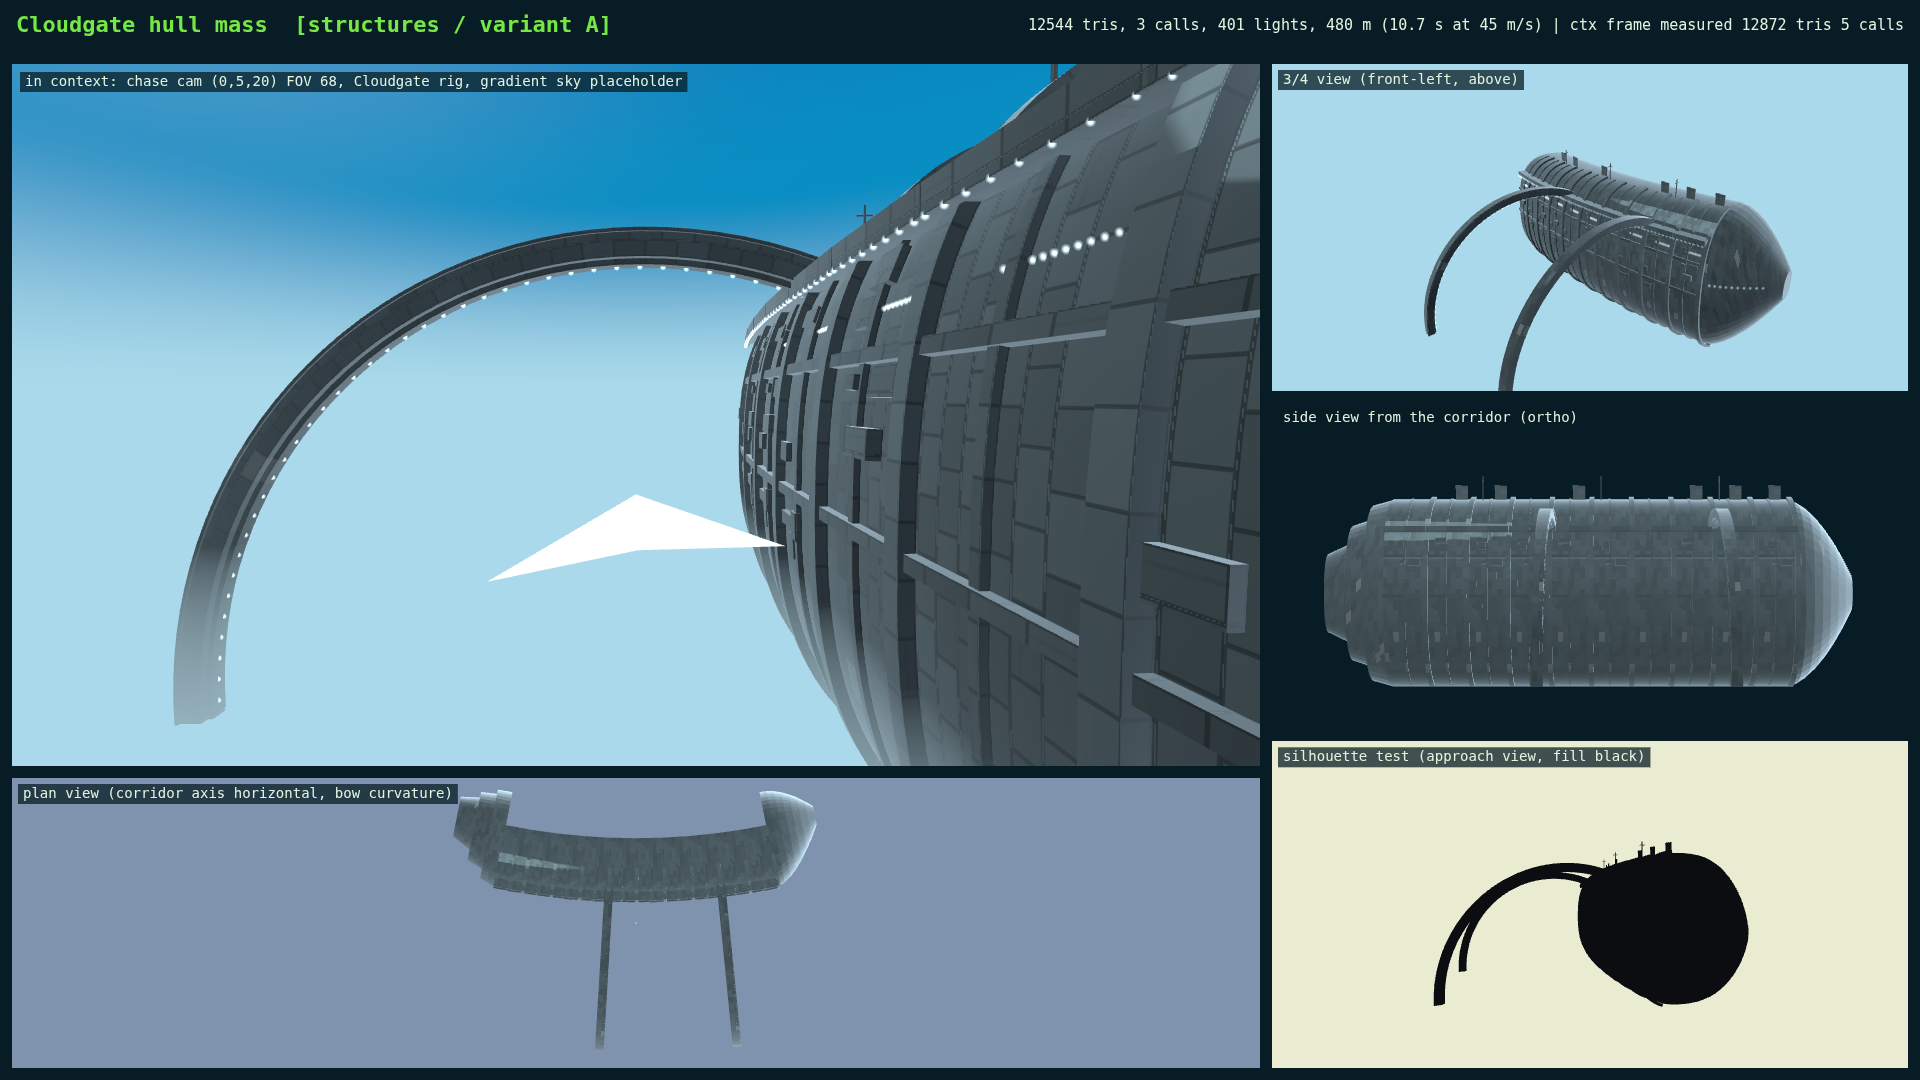
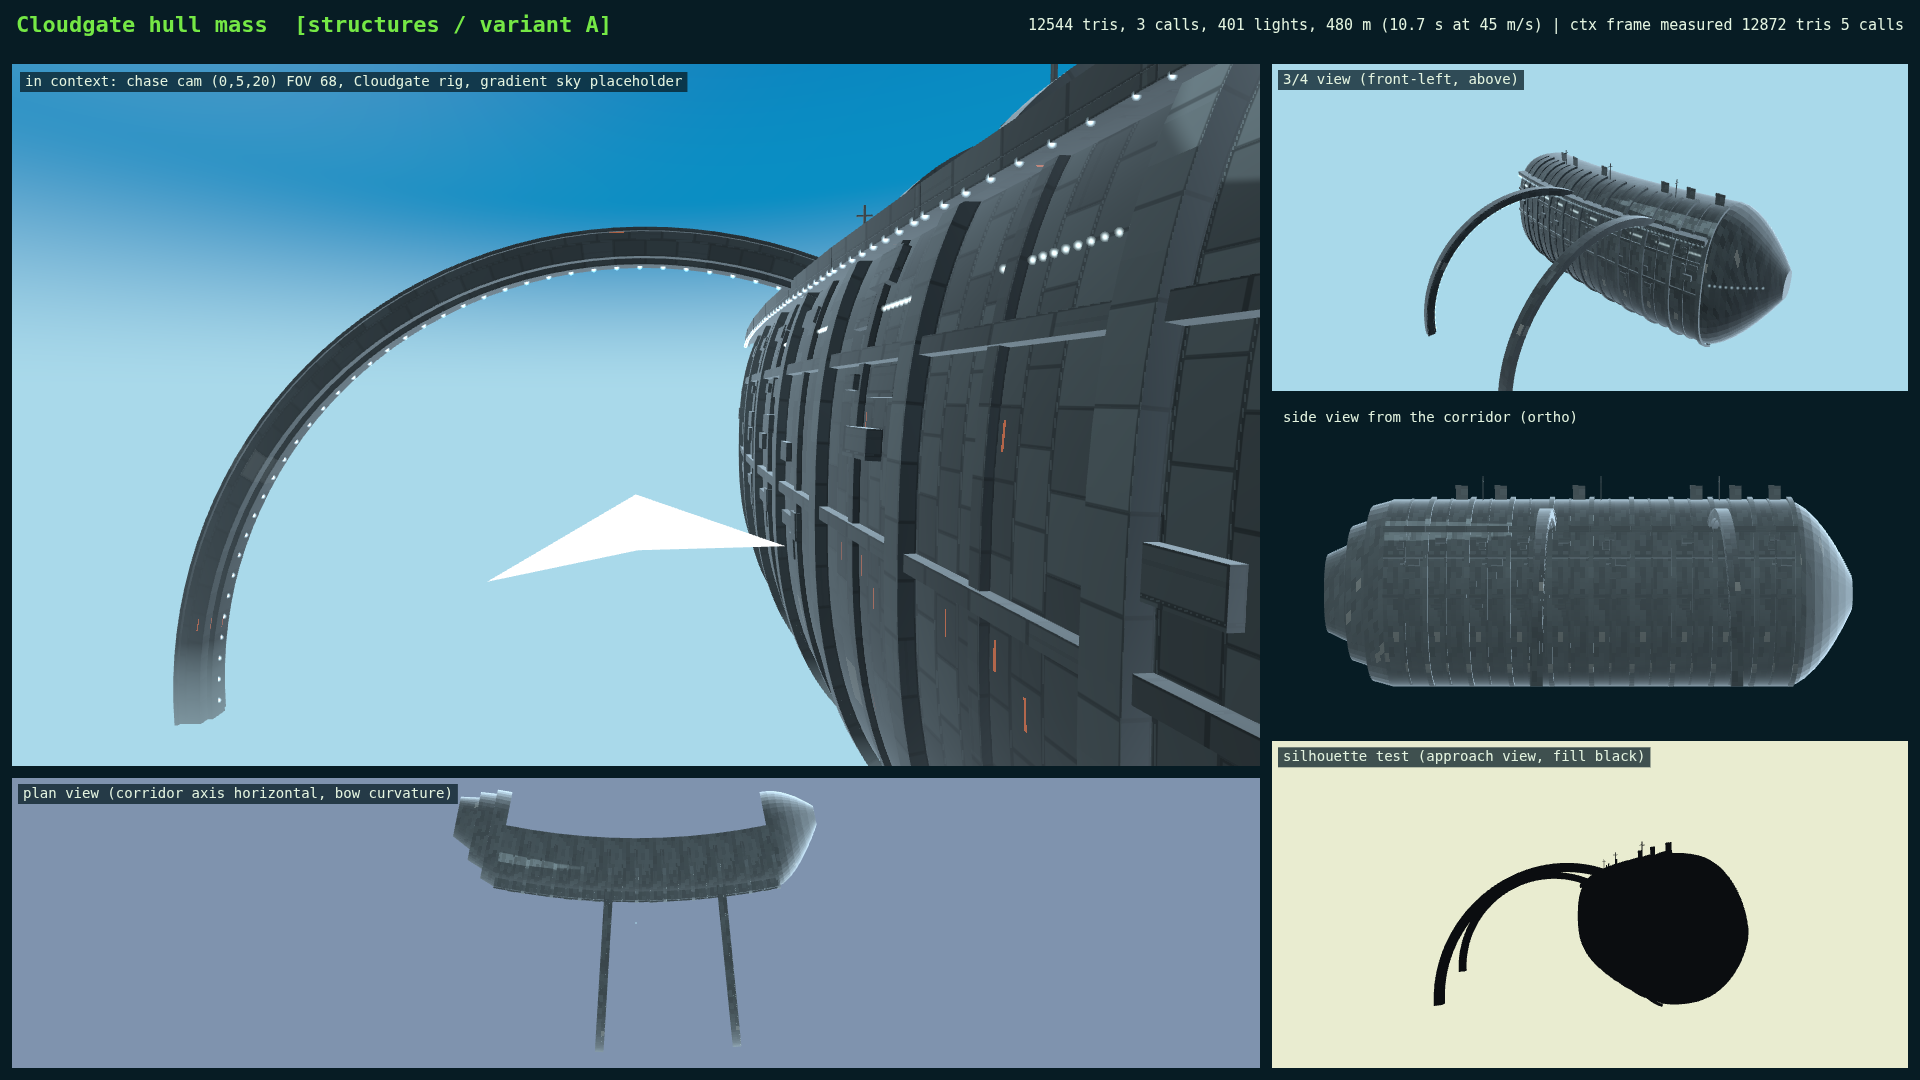
CONTRAIL: consistency-pass work in progress
Claude-Session: https://claude.ai/code/session_01Sb5vk8dPPmr8ekyxShV53k

Changed region(s): [[0.375, 0.4889, 0.5, 0.7333], [0.0625, 0.5194, 0.125, 0.6722]]

diff --git a/contrail/src/gen/entities/enemies/bulwark.ts b/contrail/src/gen/entities/enemies/bulwark.ts
@@ -327,7 +327,8 @@ export function bulwarkGeometry(p: BulwarkParams, seed: number) {
 
 export function buildBulwark(params: BulwarkParams = ENEMY_VARIANTS.A.bulwark, seed = 1): BulwarkBuild {
   const G = bulwarkGeometry(params, seed);
-  const mp = createEnemyMaterial({ look: params.look, seamSpacing: 6 });
+  // a 220 m hull: halve the rim so it stays an edge line, not a wash over big facets
+  const mp = createEnemyMaterial({ look: { ...params.look, rimStrength: params.look.rimStrength * 0.5, stageRim: params.look.stageRim * 0.5 }, seamSpacing: 6 });
   const root = new THREE.Group();
   root.name = 'bulwark';
   for (const m of enemyMesh(G.geo, mp)) root.add(m);

diff --git a/contrail/src/gen/entities/enemies/material.ts b/contrail/src/gen/entities/enemies/material.ts
@@ -169,7 +169,8 @@ void main() {
   // thin, crisp anime rim from the welded (smoothed) normal: hugs the silhouette
   // instead of flooding flat facets seen at grazing angles
   vec3 rN = normalize(vRimN);
-  float edge = 1.0 - clamp(abs(dot(rN, v)), 0.0, 1.0);
+  // rim only where BOTH the facet and the welded normal are grazing (no whole-face floods)
+  float edge = 1.0 - max(clamp(abs(dot(rN, v)), 0.0, 1.0), clamp(dot(n, v), 0.0, 1.0) * 0.85);
   float fr = smoothstep(0.7, 0.7 + 0.75 / uWarmRimPower, edge) * edge * edge;
   fr *= smoothstep(-0.1, 0.25, dot(n, v) + 0.2);
   float facing = clamp(dot(rN, normalize(uRimDir)) * 0.5 + 0.5, 0.0, 1.0);

diff --git a/contrail/src/gen/entities/enemies/variants.ts b/contrail/src/gen/entities/enemies/variants.ts
@@ -43,7 +43,7 @@ export const ENEMY_VARIANTS: Record<'A' | 'B' | 'C', EnemyVariant> = {
   ),
   B: variant(
     'Hard panel',
-    { rimStrength: 0.95, rimPower: 3.2, rimWrap: 0.3, stageRim: 0.25, panelContrast: 1.0, markerIntensity: 2.6, markerDensity: 1.0, thrusterIntensity: 2.2, seamStrength: 0.45, outline: true, outlinePx: 1.4 },
+    { rimStrength: 1.6, rimPower: 3.2, rimWrap: 0.55, stageRim: 0.45, panelContrast: 1.0, markerIntensity: 3.2, markerDensity: 1.0, thrusterIntensity: 2.2, seamStrength: 0.45, outline: true, outlinePx: 1.4 },
     { spike: 0.6, leg: 0.94, wing: 1.06 },
   ),
   C: variant(

diff --git a/contrail/src/lab/boards/enemies.ts b/contrail/src/lab/boards/enemies.ts
@@ -336,7 +336,7 @@ export default async function board(ctx: LabContext) {
     const pxPerM = (RW - 40) / 240;
     const wM = RW / pxPerM, hM = b3.h / pxPerM;
     const cam = new THREE.OrthographicCamera(-wM / 2, wM / 2, hM / 2, -hM / 2, -2000, 2000);
-    cam.position.set(0, -20, -400);
+    cam.position.set(0, -20, -140); // ortho: close camera so fog does not lift the dark hull
     cam.lookAt(0, -22, 0);
     render('cloudgate', scene, cam, b3, palette.skyHorizon);
     header('TRUE SCALE vs BULWARK (front)', b3);

diff --git a/contrail/src/lab/boards/enemies-dbg.ts b/contrail/src/lab/boards/enemies-dbg.ts
@@ -23,7 +23,7 @@ export default async function board(ctx: LabContext) {
     const r = cells[i];
     const hM = 240 * (r.h / r.w);
     const cam = new THREE.OrthographicCamera(-120, 120, hM / 2, -hM / 2, -2000, 2000);
-    cam.position.set(0, -20, -400);
+    cam.position.set(0, -20, -140);
     cam.lookAt(0, -22, 0);
     applyStageLook('cloudgate');
     ctx.renderCells([{ scene, camera: cam, rect: r, clear: palette.skyHorizon }], null);
